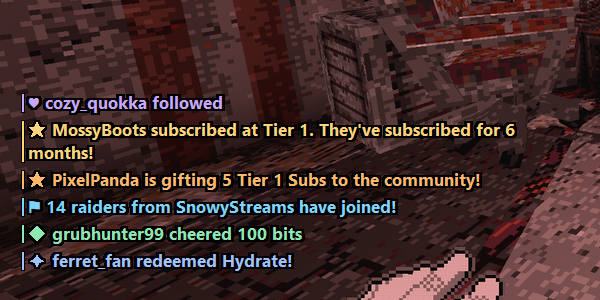
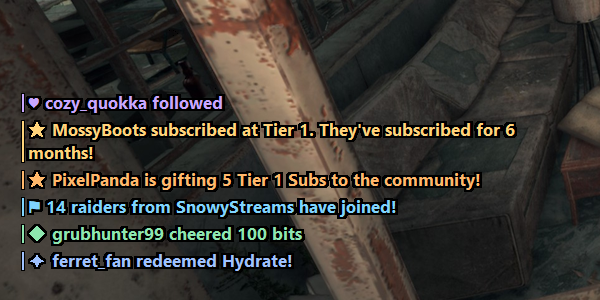
Remove the death counter and use screenshots from different games
The death counter is an OBS widget, which is outside this project's scope.
The README screenshots now use Dying Light 2 and Deadlock instead of a
single game.

diff --git a/demo.py b/demo.py
@@ -19,7 +19,7 @@ SCRIPT = [
     (0.3, "chat", ("MossyBoots", "#DAA520", "LUL LUL")),
     (0.3, "alert", {"kind": "sub", "text": "MossyBoots subscribed at Tier 1. They've subscribed for 6 months!",
                     "message": "half a year already peepoHappy"}),
-    (0.3, "chat", ("ferret_fan", "#00FF7F", "how many deaths are we at now")),
+    (0.3, "chat", ("ferret_fan", "#00FF7F", "what rank are you now")),
     (0.3, "chat", ("PixelPanda", "#1E90FF", "dont ask Kappa")),
     (0.3, "alert", {"kind": "raid", "text": "14 raiders from SnowyStreams have joined!", "message": ""}),
     (0.3, "chat", ("SnowyStreams", "#8A2BE2", "hiii everyone AlienDance PepePls")),

diff --git a/README.md b/README.md
@@ -9,7 +9,6 @@ A small, see-through Twitch chat window that sits **on top of your games** witho
 - Quiet **alerts** for follows, subs, gift subs, raids, bits and channel points: one colored line and a soft chime
 - Messages that mods delete, or from users they ban or time out, disappear from the overlay too
 - Hides `!commands` and common bots (Nightbot, StreamElements, …)
-- Bonus: an OBS **death counter** your mods control from chat
 
 Windows 10/11 only.
 
@@ -39,7 +38,7 @@ Your game must run in **Borderless** or **Windowed fullscreen**. No overlay can 
 
 Edit mode also shows the connection status: chat, emotes and alerts.
 
-<img src="docs/edit-mode.png" alt="Edit mode with a border, resize grip and status lines" width="420">
+<img src="docs/edit-mode.jpg" alt="Edit mode with a border, resize grip and status lines, over a game" width="640">
 
 ## Settings
 
@@ -86,25 +85,6 @@ A window shows a short code and opens Twitch. Log in as the channel owner (or on
 
 To use your own Twitch app instead of the built-in one, put its Client ID in `.env` and log in again.
 
-## Death counter for OBS (optional)
-
-<img src="docs/death-counter.png" alt="Death counter showing DEATHS: 46" width="480">
-
-1. In OBS: **+ → Browser**, and untick "Local file".
-2. URL: `http://absolute/C:/path/to/deaths.html?channel=yourname`. Use the real path to the file, with forward slashes.
-3. Width 520, height 110.
-
-Only mods and the broadcaster can change it:
-
-| Chat command | Effect |
-|---|---|
-| `!death` or `!d+` | +1 |
-| `!death-` or `!d-` | −1 |
-| `!deaths set 12` | Set to a number |
-| `!deathreset` | Back to 0 |
-
-Extra URL options: `&label=FAILS` changes the text, `&size=36` changes the size, and `&key=eldenring` keeps a separate count per game. The count survives OBS restarts.
-
 ## Start automatically with Windows
 
 Press **Win+R**, type `shell:startup`, and put a shortcut to `TwitchChatOverlay.exe` in that folder (or to `start.bat` in the source version).
@@ -122,9 +102,9 @@ login.bat      # Twitch login for follow alerts
 build.bat      # build the .exe + zip into dist\
 ```
 
-Files: `overlay.py` (window, chat, emotes), `alerts.py` (alerts, Twitch login, chime), `settings.py` (file locations, `.env`), `deaths.html` (OBS counter), `demo.py` (scripted chat for screenshots: `python overlay.py --demo`, add `--edit` or `--alerts`).
+Files: `overlay.py` (window, chat, emotes), `alerts.py` (alerts, Twitch login, chime), `settings.py` (file locations, `.env`), `demo.py` (scripted chat for screenshots: `python overlay.py --demo`, add `--edit` or `--alerts`).
 
-The screenshots use made-up usernames. The game in the background is *White Knuckle*.
+The screenshots use made-up usernames. Games in the background: *Dying Light 2* and *Deadlock*.
 
 ## Troubleshooting
 
